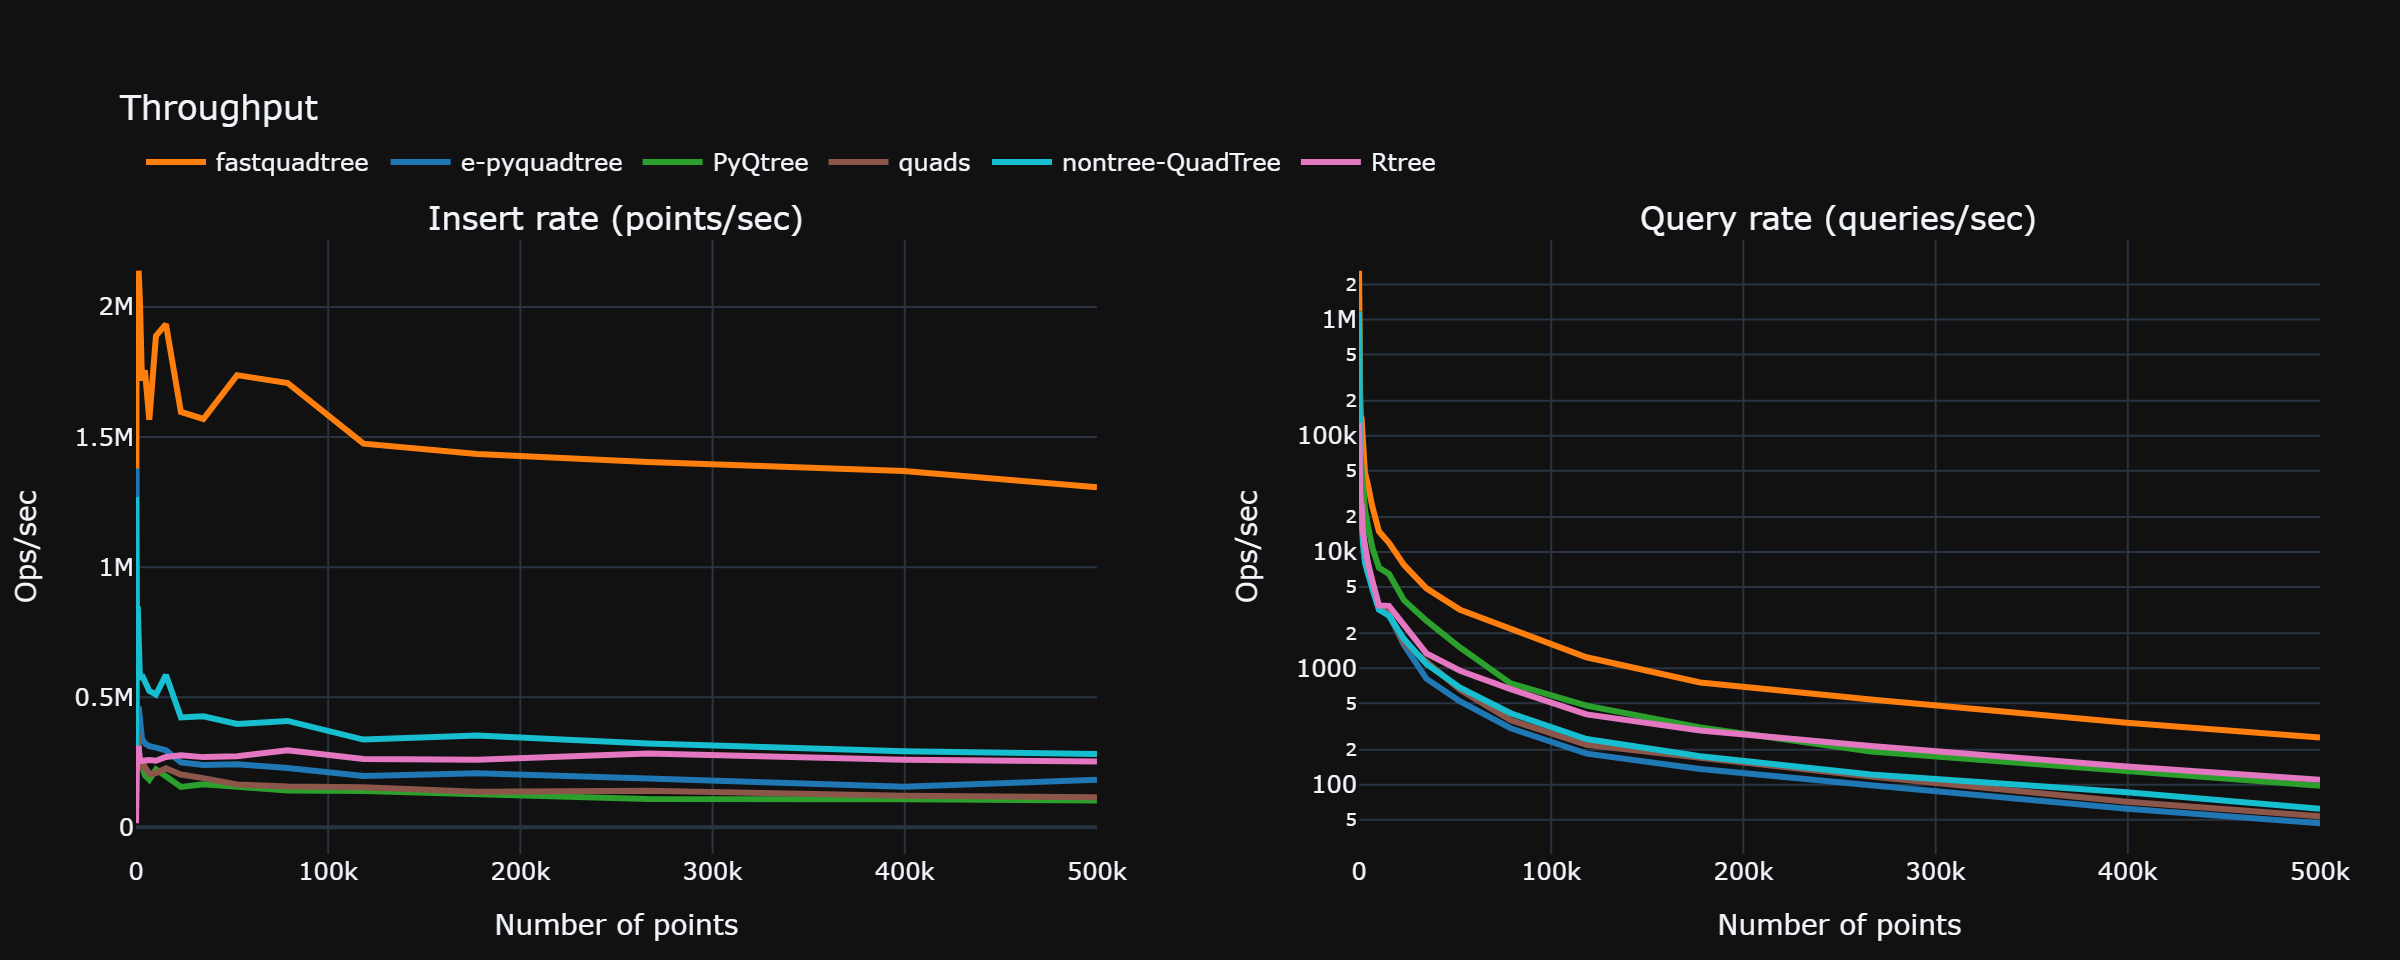
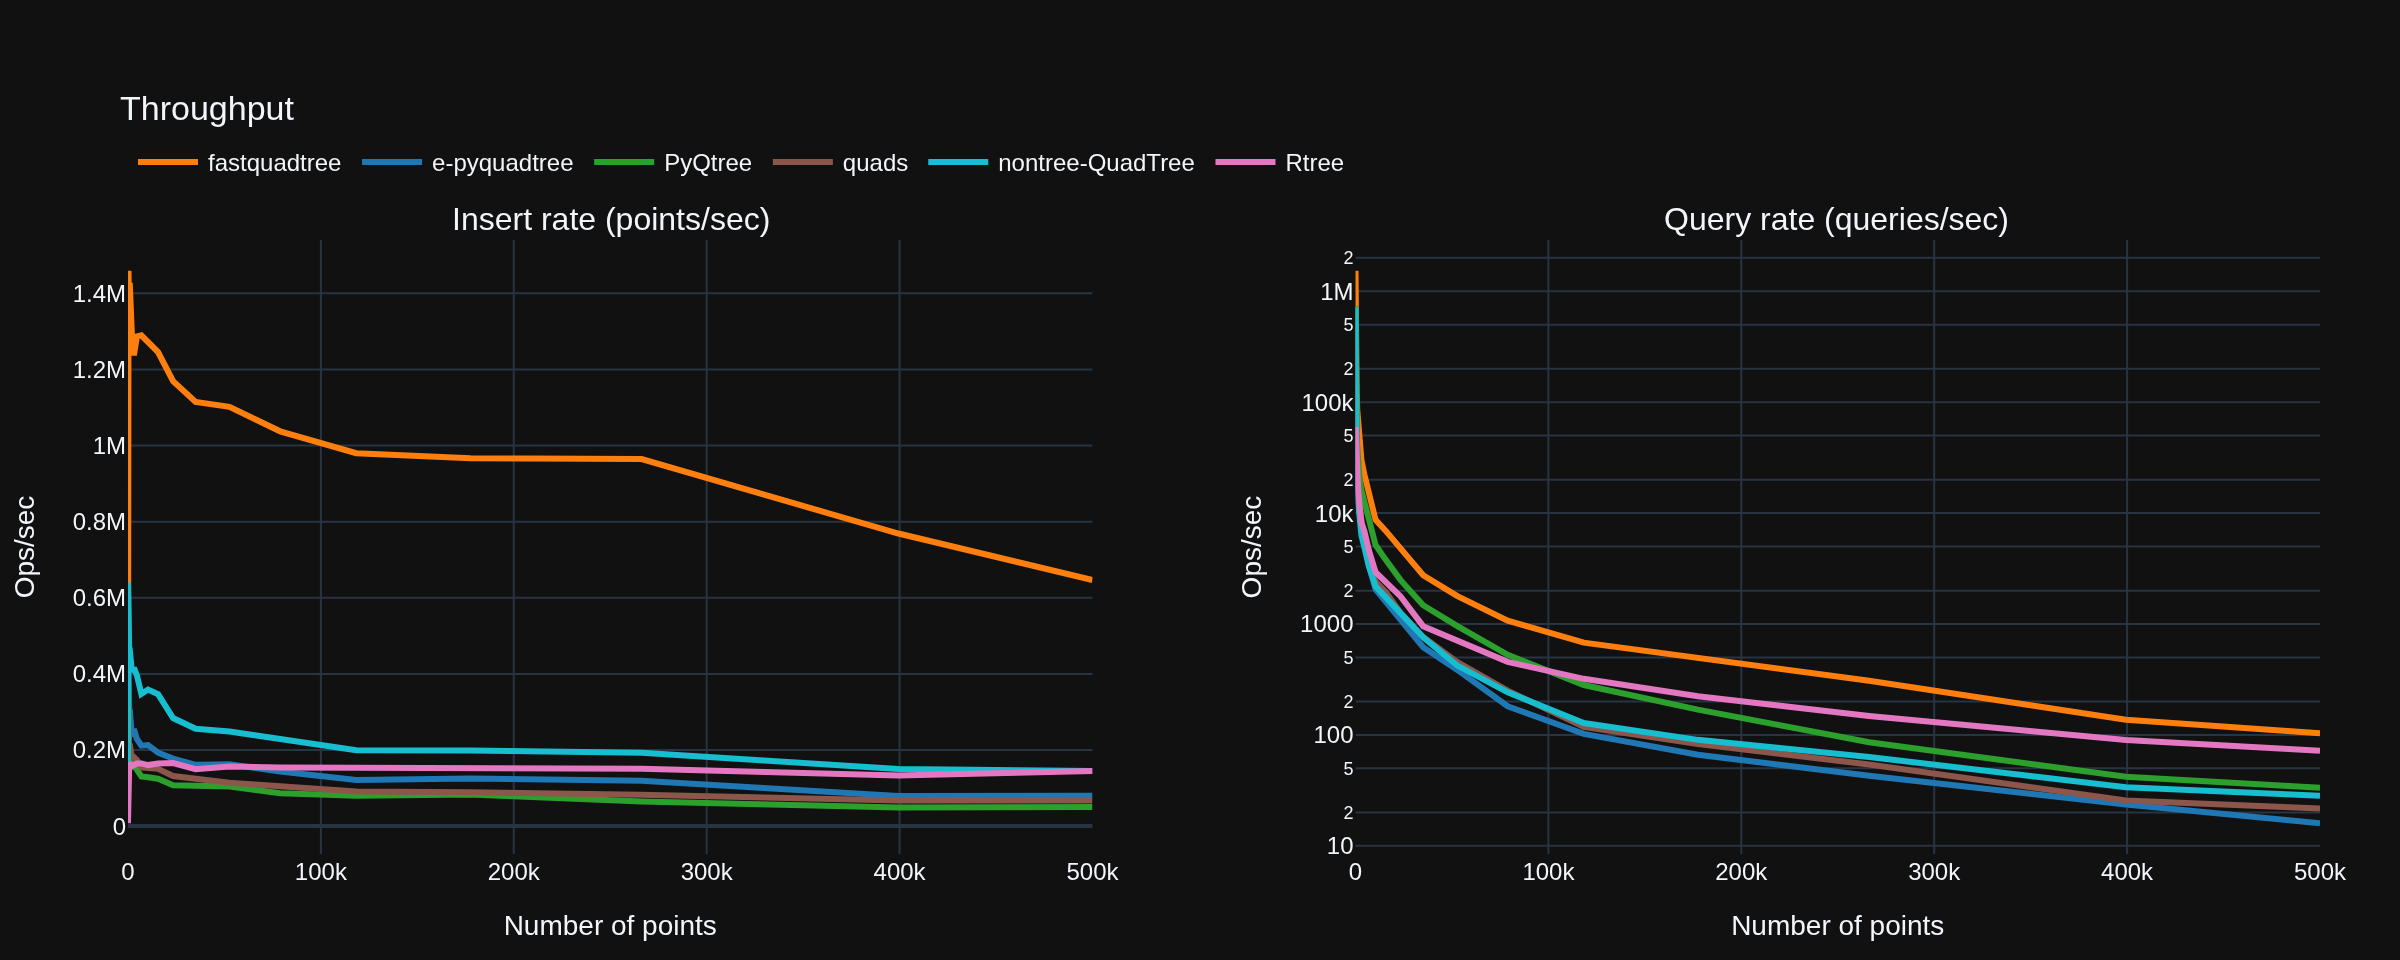
feat: switch from f64 to f32 and adjust query child bounds check

diff --git a/src/lib.rs b/src/lib.rs
@@ -8,7 +8,7 @@ pub use crate::quadtree::{Item, QuadTree};
 
 use pyo3::prelude::*;
 
-fn item_to_tuple(it: Item) -> (u64, f64, f64) {
+fn item_to_tuple(it: Item) -> (u64, f32, f32) {
     (it.id, it.point.x, it.point.y)
 }
 
@@ -20,7 +20,7 @@ pub struct PyQuadTree {
 #[pymethods]
 impl PyQuadTree {
     #[new]
-    pub fn new(bounds: (f64, f64, f64, f64), capacity: usize, max_depth: Option<usize>) -> Self {
+    pub fn new(bounds: (f32, f32, f32, f32), capacity: usize, max_depth: Option<usize>) -> Self {
         let (min_x, min_y, max_x, max_y) = bounds;
         let rect = Rect { min_x, min_y, max_x, max_y };
         let inner = match max_depth {
@@ -30,17 +30,17 @@ impl PyQuadTree {
         Self { inner }
     }
 
-    pub fn insert(&mut self, id: u64, xy: (f64, f64)) -> bool {
+    pub fn insert(&mut self, id: u64, xy: (f32, f32)) -> bool {
         let (x, y) = xy;
         self.inner.insert(Item { id, point: Point { x, y } })
     }
 
-    pub fn delete(&mut self, id: u64, xy: (f64, f64)) -> bool {
+    pub fn delete(&mut self, id: u64, xy: (f32, f32)) -> bool {
         let (x, y) = xy;
         self.inner.delete(id, Point { x, y })
     }
 
-    pub fn query(&self, rect: (f64, f64, f64, f64)) -> Vec<(u64, f64, f64)> {
+    pub fn query(&self, rect: (f32, f32, f32, f32)) -> Vec<(u64, f32, f32)> {
         let (min_x, min_y, max_x, max_y) = rect;
         self.inner
             .query(Rect { min_x, min_y, max_x, max_y })
@@ -49,12 +49,12 @@ impl PyQuadTree {
             .collect()
     }
 
-    pub fn nearest_neighbor(&self, xy: (f64, f64)) -> Option<(u64, f64, f64)> {
+    pub fn nearest_neighbor(&self, xy: (f32, f32)) -> Option<(u64, f32, f32)> {
         let (x, y) = xy;
         self.inner.nearest_neighbor(Point { x, y }).map(item_to_tuple)
     }
 
-    pub fn nearest_neighbors(&self, xy: (f64, f64), k: usize) -> Vec<(u64, f64, f64)> {
+    pub fn nearest_neighbors(&self, xy: (f32, f32), k: usize) -> Vec<(u64, f32, f32)> {
         let (x, y) = xy;
         self.inner
             .nearest_neighbors(Point { x, y }, k)
@@ -64,7 +64,7 @@ impl PyQuadTree {
     }
 
     /// Returns all rectangle boundaries in the quadtree for visualization
-    pub fn get_all_rectangles(&self) -> Vec<(f64, f64, f64, f64)> {
+    pub fn get_all_rectangles(&self) -> Vec<(f32, f32, f32, f32)> {
         self.inner
             .get_all_rectangles()
             .into_iter()

diff --git a/src/quadtree.rs b/src/quadtree.rs
@@ -126,32 +126,34 @@ impl QuadTree {
         stack.push(self);
 
         while let Some(node) = stack.pop() {
-            if !node.boundary.intersects(&range) {
-                continue;
-            }
             for it in &node.items {
                 if range.contains(&it.point) {
                     out.push(*it);
                 }
             }
             if let Some(children) = node.children.as_ref() {
-                stack.extend(children.iter());
+                // Push children that intersect the query range
+                for child in children.iter() {
+                    if range.intersects(&child.boundary) {
+                        stack.push(child);
+                    }
+                }
             }
         }
         out
     }
 
     pub fn nearest_neighbor(&self, point: Point) -> Option<Item> {
-        self.nearest_neighbors_within(point, 1, f64::INFINITY)
+        self.nearest_neighbors_within(point, 1, f32::INFINITY)
             .into_iter()
             .next()
     }
 
     pub fn nearest_neighbors(&self, point: Point, k: usize) -> Vec<Item> {
-        self.nearest_neighbors_within(point, k, f64::INFINITY)
+        self.nearest_neighbors_within(point, k, f32::INFINITY)
     }
 
-    pub fn nearest_neighbors_within(&self, point: Point, k: usize, max_distance: f64) -> Vec<Item> {
+    pub fn nearest_neighbors_within(&self, point: Point, k: usize, max_distance: f32) -> Vec<Item> {
         if k == 0 {
             return Vec::new();
         }
@@ -162,7 +164,7 @@ impl QuadTree {
 
         for _ in 0..k {
             // stack holds (node_ref, bbox_distance_sq)
-            let mut stack: Vec<(&QuadTree, f64)> = Vec::new();
+            let mut stack: Vec<(&QuadTree, f32)> = Vec::new();
             stack.push((self, dist_sq_point_to_rect(&point, &self.boundary)));
 
             let mut best: Option<Item> = None;
@@ -176,7 +178,7 @@ impl QuadTree {
 
                 if let Some(children) = node.children.as_ref() {
                     // compute and sort children by bbox distance, push farthest first
-                    let mut kids: Vec<(&QuadTree, f64)> = children
+                    let mut kids: Vec<(&QuadTree, f32)> = children
                         .iter()
                         .map(|c| (c, dist_sq_point_to_rect(&point, &c.boundary)))
                         .filter(|(_, d2)| *d2 < best_d2)

diff --git a/tests/nearest_neighbor.rs b/tests/nearest_neighbor.rs
@@ -1,15 +1,15 @@
 use fastquadtree::{Point, Rect, Item, QuadTree};
 
-fn r(x0: f64, y0: f64, x1: f64, y1: f64) -> Rect {
+fn r(x0: f32, y0: f32, x1: f32, y1: f32) -> Rect {
     Rect { min_x: x0, min_y: y0, max_x: x1, max_y: y1 }
 }
-fn pt(x: f64, y: f64) -> Point { Point { x, y } }
+fn pt(x: f32, y: f32) -> Point { Point { x, y } }
 fn ids(v: &[Item]) -> Vec<u64> {
     let mut out: Vec<u64> = v.iter().map(|it| it.id).collect();
     out.sort_unstable();
     out
 }
-fn dist2(a: Point, b: Point) -> f64 {
+fn dist2(a: Point, b: Point) -> f32 {
     let dx = a.x - b.x;
     let dy = a.y - b.y;
     dx * dx + dy * dy
@@ -69,7 +69,7 @@ fn knn_basic_ordering_no_split() {
     assert_eq!(order, vec![2, 1, 4, 3, 5]);
 
     // distances should be nondecreasing
-    let d: Vec<f64> = res.iter().map(|it| dist2(q, it.point)).collect();
+    let d: Vec<f32> = res.iter().map(|it| dist2(q, it.point)).collect();
     for w in d.windows(2) {
         assert!(w[0] <= w[1] + 1e-12);
     }
@@ -176,7 +176,7 @@ fn ordering_is_by_distance_even_after_splits() {
     let mut id = 1u64;
     for y in (4..=60).step_by(8) {
         for x in (4..=60).step_by(8) {
-            qt.insert(Item { id, point: pt(x as f64, y as f64) });
+            qt.insert(Item { id, point: pt(x as f32, y as f32) });
             id += 1;
         }
     }
@@ -185,7 +185,7 @@ fn ordering_is_by_distance_even_after_splits() {
     assert!(!res.is_empty());
 
     // distances should be nondecreasing
-    let d: Vec<f64> = res.iter().map(|it| dist2(q, it.point)).collect();
+    let d: Vec<f32> = res.iter().map(|it| dist2(q, it.point)).collect();
     for w in d.windows(2) {
         assert!(w[0] <= w[1] + 1e-12);
     }

diff --git a/tests/unconventional_bounds.rs b/tests/unconventional_bounds.rs
@@ -1,14 +1,14 @@
 use fastquadtree::{Point, Rect, Item, QuadTree};
 
-fn r(x0: f64, y0: f64, x1: f64, y1: f64) -> Rect {
+fn r(x0: f32, y0: f32, x1: f32, y1: f32) -> Rect {
     Rect { min_x: x0, min_y: y0, max_x: x1, max_y: y1 }
 }
 
-fn pt(x: f64, y: f64) -> Point { 
+fn pt(x: f32, y: f32) -> Point { 
     Point { x, y } 
 }
 
-fn item(id: u64, x: f64, y: f64) -> Item {
+fn item(id: u64, x: f32, y: f32) -> Item {
     Item { id, point: pt(x, y) }
 }
 
@@ -226,8 +226,8 @@ fn stress_test_negative_coordinates() {
     let mut inserted_count = 0;
     for i in 0..50 {
         for j in 0..50 {
-            let x = -20.0 * (i as f64) - 10.0; // Range from -10 to -990
-            let y = -20.0 * (j as f64) - 10.0; // Range from -10 to -990
+            let x = -20.0 * (i as f32) - 10.0; // Range from -10 to -990
+            let y = -20.0 * (j as f32) - 10.0; // Range from -10 to -990
             let id = (i * 50 + j) as u64 + 1;
             if x >= -1000.0 && y >= -1000.0 && x < 0.0 && y < 0.0 {
                 assert!(qt.insert(item(id, x, y)));

diff --git a/tests/query.rs b/tests/query.rs
@@ -1,9 +1,9 @@
 use fastquadtree::{Point, Rect, Item, QuadTree};
 
-fn r(x0: f64, y0: f64, x1: f64, y1: f64) -> Rect {
+fn r(x0: f32, y0: f32, x1: f32, y1: f32) -> Rect {
     Rect { min_x: x0, min_y: y0, max_x: x1, max_y: y1 }
 }
-fn pt(x: f64, y: f64) -> Point { Point { x, y } }
+fn pt(x: f32, y: f32) -> Point { Point { x, y } }
 fn ids(v: &[Item]) -> Vec<u64> {
     let mut out: Vec<u64> = v.iter().map(|it| it.id).collect();
     out.sort_unstable();
@@ -101,8 +101,8 @@ fn query_range_covering_multiple_children_returns_union() {
 fn full_range_query_returns_all_items() {
     let mut qt = QuadTree::new(r(0.0, 0.0, 100.0, 100.0), 3);
     for i in 0..9 {
-        let x = 10.0 + 10.0 * (i as f64);
-        let y = 20.0 + 5.0 * (i as f64);
+        let x = 10.0 + 10.0 * (i as f32);
+        let y = 20.0 + 5.0 * (i as f32);
         assert!(qt.insert(Item { id: i + 1, point: pt(x, y) }));
     }
     let hits = qt.query(r(0.0, 0.0, 100.0, 100.0));

diff --git a/src/geom.rs b/src/geom.rs
@@ -1,15 +1,15 @@
 #[derive(Copy, Clone, Debug, PartialEq, Default)]
 pub struct Point {
-    pub x: f64,
-    pub y: f64,
+    pub x: f32,
+    pub y: f32,
 }
 
 #[derive(Copy, Clone, Debug, PartialEq, Default)]
 pub struct Rect {
-    pub min_x: f64,
-    pub min_y: f64,
-    pub max_x: f64,
-    pub max_y: f64,
+    pub min_x: f32,
+    pub min_y: f32,
+    pub max_x: f32,
+    pub max_y: f32,
 }
 
 impl Rect {
@@ -23,7 +23,7 @@ impl Rect {
     }
 }
 
-pub fn dist_sq_point_to_rect(p: &Point, r: &Rect) -> f64 {
+pub fn dist_sq_point_to_rect(p: &Point, r: &Rect) -> f32 {
     let dx = if p.x < r.min_x {
         r.min_x - p.x
     } else if p.x > r.max_x {
@@ -43,7 +43,7 @@ pub fn dist_sq_point_to_rect(p: &Point, r: &Rect) -> f64 {
     dx * dx + dy * dy
 }
 
-pub fn dist_sq_points(a: &Point, b: &Point) -> f64 {
+pub fn dist_sq_points(a: &Point, b: &Point) -> f32 {
     let dx = a.x - b.x;
     let dy = a.y - b.y;
     dx * dx + dy * dy

diff --git a/tests/insertions.rs b/tests/insertions.rs
@@ -1,10 +1,10 @@
 use fastquadtree::{Point, Rect, Item, QuadTree};
 
-fn r(x0: f64, y0: f64, x1: f64, y1: f64) -> Rect {
+fn r(x0: f32, y0: f32, x1: f32, y1: f32) -> Rect {
     Rect { min_x: x0, min_y: y0, max_x: x1, max_y: y1 }
 }
 
-fn pt(x: f64, y: f64) -> Point { Point { x, y } }
+fn pt(x: f32, y: f32) -> Point { Point { x, y } }
 
 #[test]
 fn rect_contains_half_open() {
@@ -73,7 +73,7 @@ fn many_inserts_all_succeed_when_inside() {
     let mut id = 1u64;
     for x in (10..1000).step_by(100) {
         for y in (10..1000).step_by(100) {
-            if qt.insert(Item { id, point: pt(x as f64, y as f64) }) {
+            if qt.insert(Item { id, point: pt(x as f32, y as f32) }) {
                 ok += 1;
             }
             id += 1;

diff --git a/README.md b/README.md
@@ -36,17 +36,17 @@ fastquadtree **outperforms** all other quadtree Python packages, including the R
 
 ### Summary (largest dataset, PyQtree baseline)
 - Points: **500,000**, Queries: **500**
-- Fastest total: **fastquadtree** at **2.207 s**
+--------------------
+- Fastest total: **fastquadtree** at **5.595 s**
 
 | Library | Build (s) | Query (s) | Total (s) | Speed vs PyQtree |
 |---|---:|---:|---:|---:|
-| fastquadtree  | 0.321 | 1.885 | 2.207 | 4.27× |
-| Rtree        | 1.718 | 4.376 | 6.095 | 1.55× |
-| nontree-QuadTree | 1.617 | 7.643 | 9.260 | 1.02× |
-| PyQtree      | 4.349 | 5.082 | 9.431 | 1.00× |
-| quads        | 3.874 | 9.058 | 12.932 | 0.73× |
-| e-pyquadtree | 2.732 | 10.598 | 13.330 | 0.71× |
-| Brute force  | 0.019 | 19.986 | 20.005 | 0.47× |
+| fastquadtree | 0.773 | 4.822 | 5.595 | 4.46× |
+| Rtree        | 3.457 | 6.944 | 10.400 | 2.40× |
+| nontree-QuadTree | 3.453 | 17.647 | 21.100 | 1.18× |
+| PyQtree      | 9.975 | 14.971 | 24.946 | 1.00× |
+| quads        | 7.439 | 23.001 | 30.440 | 0.82× |
+| e-pyquadtree | 6.274 | 31.298 | 37.572 | 0.66× |
 
 ## Install
 
